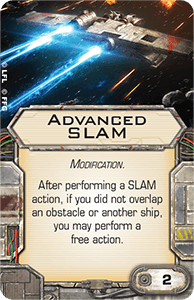
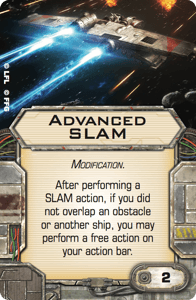
New: Advanced SLAM errata

diff --git a/data/upgrades.js b/data/upgrades.js
@@ -2157,7 +2157,7 @@
     "id": 189,
     "slot": "Modification",
     "points": 2,
-    "text": "After performing a SLAM action, if you did not overlap an obstacle or another ship, you may perform a free action.",
+    "text": "After performing a SLAM action, if you did not overlap an obstacle or another ship, you may perform a free action on your action bar.",
     "image": "upgrades/Modification/advanced-slam.png",
     "xws": "advancedslam"
   },
